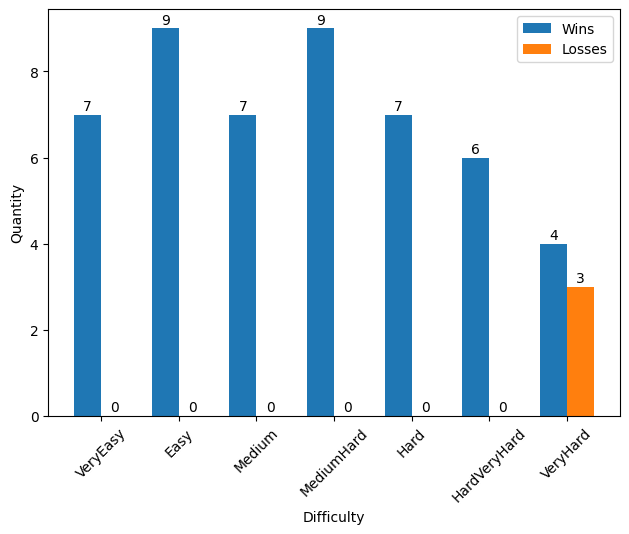
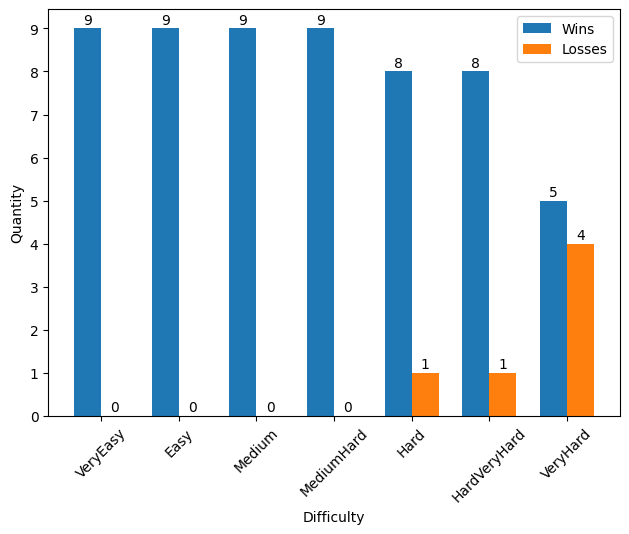
added standard deviation script and updated getStats

diff --git a/scripts/getStats.py b/scripts/getStats.py
@@ -5,6 +5,7 @@
 import subprocess
 import matplotlib.pyplot as plt
 import numpy as np
+from matplotlib.ticker import MaxNLocator
 
 # all possible settings
 MAPS = ["CactusValleyLE.SC2Map", "BelShirVestigeLE.SC2Map", "ProximaStationLE.SC2Map"]
@@ -44,26 +45,54 @@ def runSimulations():
 
     bad_results = []
 
-    # run all combinations 
-    for map in MAPS:
-        for race in RACES:
-            for difficulty in DIFFICULTIES:
-                # print for ourselves
-                print(f"currently processing enemy: {difficulty} {race} on {map}")
-                # run simulation
-                output = subprocess.run(["./../build/bin/BasicSc2Bot.exe", "-c", "-a", race, "-d", difficulty, "-m", map], stdout=subprocess.PIPE)
-                # get stdout and process it
-                result = parseOutput(output)
+    # # run all combinations 
+    # for map in MAPS:
+    #     for race in RACES:
+    #         for difficulty in DIFFICULTIES:
+    #             # print for ourselves
+    #             print(f"currently processing enemy: {difficulty} {race} on {map}")
+    #             # run simulation
+    #             output = subprocess.run(["./../build/bin/BasicSc2Bot.exe", "-c", "-a", race, "-d", difficulty, "-m", map], stdout=subprocess.PIPE)
+    #             # get stdout and process it
+    #             result = parseOutput(output)
 
-                if result is not None:
-                    # update result hashes
-                    global_results[result] += 1
-                    race_results[race][result] += 1
-                    map_results[map][result] += 1
-                    difficulty_results[difficulty][result] += 1
-                else:
-                    print(f"RESULT WAS NONE ({difficulty} {race} on {map})")
-                    bad_results.append(f"RESULT WAS NONE ({difficulty} {race} on {map})")
+    #             if result is not None:
+    #                 # update result hashes
+    #                 global_results[result] += 1
+    #                 race_results[race][result] += 1
+    #                 map_results[map][result] += 1
+    #                 difficulty_results[difficulty][result] += 1
+    #             else:
+    #                 print(f"RESULT WAS NONE ({difficulty} {race} on {map})")
+    #                 bad_results.append(f"RESULT WAS NONE ({difficulty} {race} on {map})")
+    
+    # bad output 
+
+    messed = [
+        [ "VeryEasy", "zerg",  "BelShirVestigeLE.SC2Map"], # run this again
+    ]
+
+
+    
+
+    for difficulty, race, map in messed:
+        print(f"currently processing enemy: {difficulty} {race} on {map}")
+        # run simulation
+        output = subprocess.run(["./../build/bin/BasicSc2Bot.exe", "-c", "-a", race, "-d", difficulty, "-m", map], stdout=subprocess.PIPE)
+        # get stdout and process it
+        result = parseOutput(output)
+
+        if result is not None:
+            # update result hashes
+            global_results[result] += 1
+            race_results[race][result] += 1
+            map_results[map][result] += 1
+            difficulty_results[difficulty][result] += 1
+        else:
+            print(f"RESULT WAS NONE ({difficulty} {race} on {map})")
+            print('test info')
+            print(output)
+            bad_results.append(f"RESULT WAS NONE ({difficulty} {race} on {map})")
 
     # generate graphs and tables
     getGraphs(global_results, race_results, map_results, difficulty_results, bad_results)
@@ -146,11 +175,12 @@ def getGraphs(glob, race, map, difficulty, bad_results):
         # Add some text for labels, title and custom x-axis tick labels, etc.
         ax.set_ylabel('Quantity')
         ax.set_xlabel(name)
-        ax.legend()
+        ax.legend(loc='upper right')
         ax.set_xticks(x, categories)
 
         ax.bar_label(rects1, padding=1)
         ax.bar_label(rects2, padding=1)
+        ax.yaxis.set_major_locator(MaxNLocator(integer=True))
 
         fig.tight_layout()
         
@@ -161,34 +191,34 @@ def getGraphs(glob, race, map, difficulty, bad_results):
 
     
 if __name__ == "__main__":
-    runSimulations()
+    #runSimulations()
     #testRun()
 
-    # glob = {'Win': 47, 'Loss': 43, 'Tie': 0, 'Undecided': 0}
+    glob = {'Win': 57, 'Loss': 6, 'Tie': 0, 'Undecided': 0}
 
-    # race = {
-    #     'zerg': {'Win': 14, 'Loss': 16, 'Tie': 0, 'Undecided': 0}, 
-    #     'protoss': {'Win': 17, 'Loss': 13, 'Tie': 0, 'Undecided': 0}, 
-    #     'terran': {'Win': 16, 'Loss': 14, 'Tie': 0, 'Undecided': 0}
-    # }
+    race = {
+        'zerg': {'Win': 18, 'Loss': 3, 'Tie': 0, 'Undecided': 0}, 
+        'protoss': {'Win': 19, 'Loss': 2, 'Tie': 0, 'Undecided': 0}, 
+        'terran': {'Win': 20, 'Loss': 1, 'Tie': 0, 'Undecided': 0}
+    }
 
-    # map = {
-    #     'CactusValleyLE.SC2Map': {'Win': 16, 'Loss': 14, 'Tie': 0, 'Undecided': 0}, 
-    #     'BelShirVestigeLE.SC2Map': {'Win': 17, 'Loss': 13, 'Tie': 0, 'Undecided': 0}, 
-    #     'ProximaStationLE.SC2Map': {'Win': 14, 'Loss': 16, 'Tie': 0, 'Undecided': 0}
-    # }
+    map = {
+        'CactusValleyLE.SC2Map': {'Win': 19, 'Loss': 2, 'Tie': 0, 'Undecided': 0}, 
+        'BelShirVestigeLE.SC2Map': {'Win': 20, 'Loss': 1, 'Tie': 0, 'Undecided': 0}, 
+        'ProximaStationLE.SC2Map': {'Win': 18, 'Loss': 3, 'Tie': 0, 'Undecided': 0}
+    }
 
-    # difficulty = {
-    #     'VeryEasy': {'Win': 9, 'Loss': 0, 'Tie': 0, 'Undecided': 0}, 
-    #     'Easy': {'Win': 9, 'Loss': 0, 'Tie': 0, 'Undecided': 0}, 
-    #     'Medium': {'Win': 8, 'Loss': 1, 'Tie': 0, 'Undecided': 0}, 
-    #     'MediumHard': {'Win': 8, 'Loss': 1, 'Tie': 0, 'Undecided': 0}, 
-    #     'Hard': {'Win': 5, 'Loss': 4, 'Tie': 0, 'Undecided': 0}, 
-    #     'HardVeryHard': {'Win': 5, 'Loss': 4, 'Tie': 0, 'Undecided': 0}, 
-    #     'VeryHard': {'Win': 3, 'Loss': 6, 'Tie': 0, 'Undecided': 0}
-    # }
+    difficulty = {
+        'VeryEasy': {'Win': 9, 'Loss': 0, 'Tie': 0, 'Undecided': 0}, 
+        'Easy': {'Win': 9, 'Loss': 0, 'Tie': 0, 'Undecided': 0}, 
+        'Medium': {'Win': 9, 'Loss': 0, 'Tie': 0, 'Undecided': 0}, 
+        'MediumHard': {'Win': 9, 'Loss': 0, 'Tie': 0, 'Undecided': 0}, 
+        'Hard': {'Win': 8, 'Loss': 1, 'Tie': 0, 'Undecided': 0}, 
+        'HardVeryHard': {'Win': 8, 'Loss': 1, 'Tie': 0, 'Undecided': 0}, 
+        'VeryHard': {'Win': 5, 'Loss': 4, 'Tie': 0, 'Undecided': 0}
+    }
 
-    # getGraphs(glob, race, map, difficulty)
+    getGraphs(glob, race, map, difficulty, [])
 
 
 # TODO
